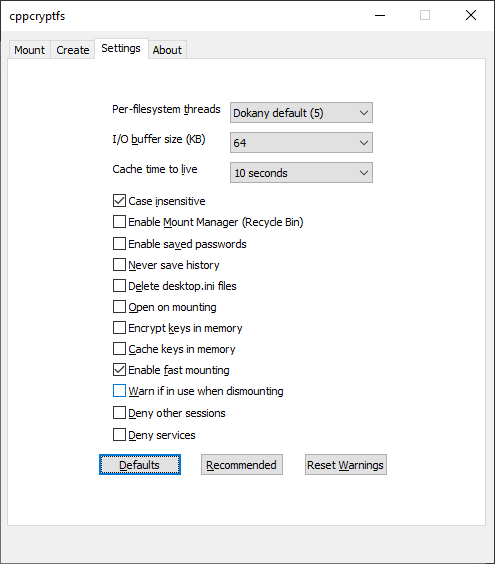
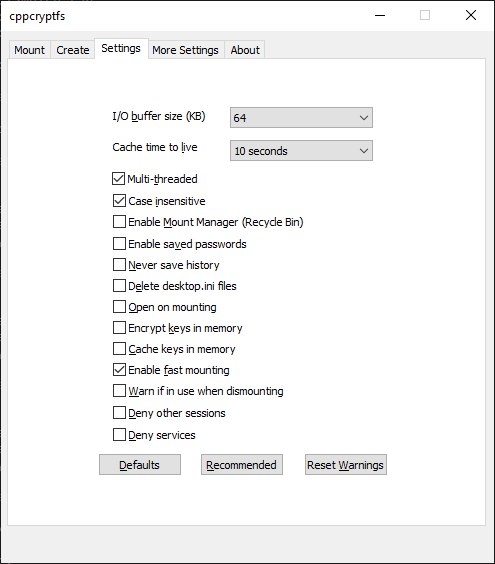
update screen shot and readme

diff --git a/README.md b/README.md
@@ -70,7 +70,7 @@ Build Requirements
 
 There are detailed build instructions in [INSTALL.md](INSTALL.md).
 
-cppcryptfs is currently up-to-date with Dokany 1.5.0.3000
+cppcryptfs is currently up-to-date with Dokany 2.0.0.2000
 
 
 Use
@@ -181,12 +181,6 @@ The current settings are stored in the Windows registry and will be used the nex
 
 The settings tab has the following setings:
 
-**Per-filesystem threads**
-
-Using more than one thread to process requests for each filesystem may result in improved performance.
-
-Using "Dokany default" will cause Dokany to choose an appropriate number of threads.  It currently uses five threads.
-
 **I/O buffer size (KB)**
 
 This setting controls the maximum size of reads and writes that cppcryptfs does on the underlying fileystem.
@@ -211,6 +205,12 @@ if the filesystem is modified on the other computer.
 
 If you are not syncing the filesystem between two concurrently running instances of cppcryptfs or between an instance of cppcryptfs and an instance of gocryptfs, then there is no
 reason to not set the cache time to live to a high value or to infinite.
+
+**Multi-threaded**
+
+If this option is on, then more than one thread can process requests for each filesystem.  This may result in improved performance.  Dokany automatically chooses the number of threads it will use.
+
+If this option is disabled, then only one thread per-filesystem will be used to process requests.
 
 **Case insensitive**
 
